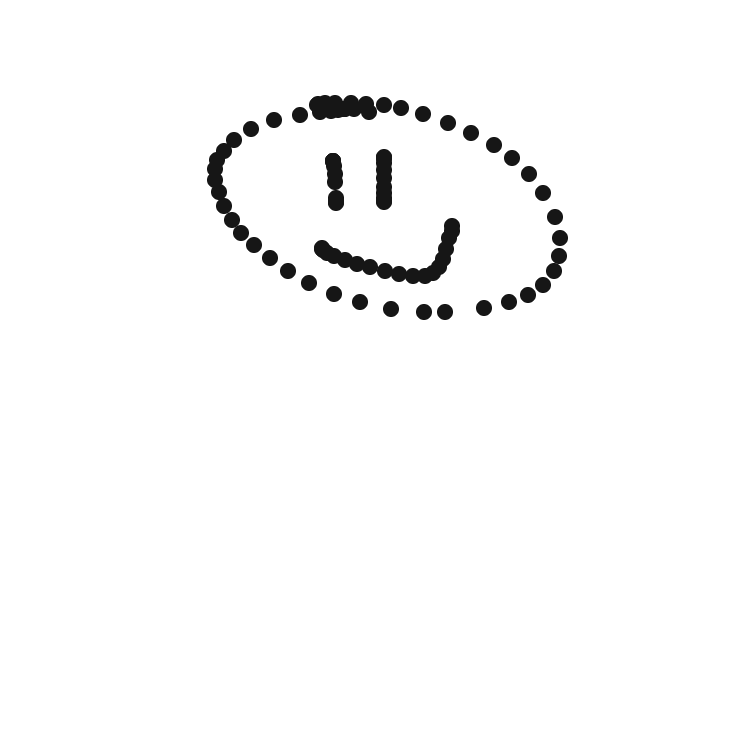
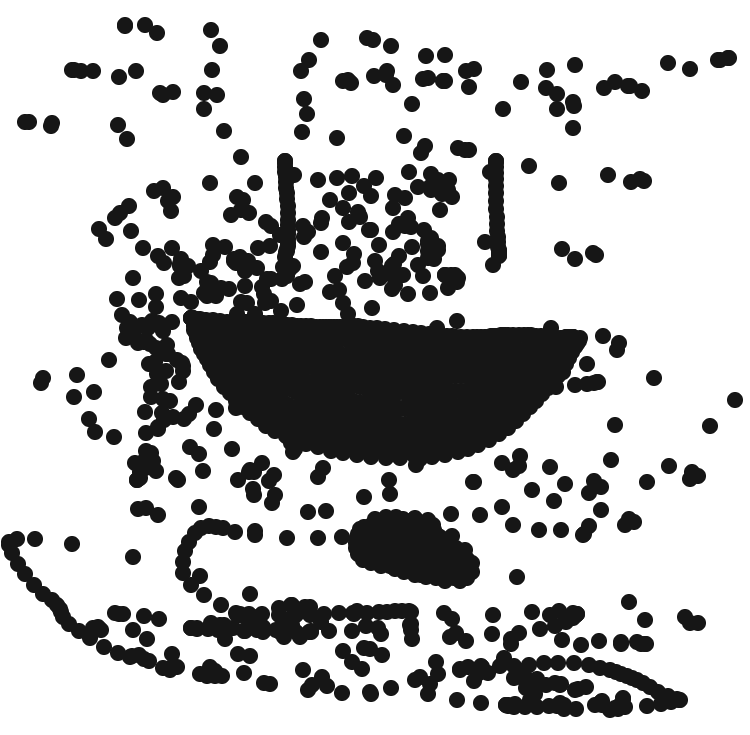
Automatic image processing
Image gets processed upon drawing now

diff --git a/js/app.js b/js/app.js
@@ -33,10 +33,20 @@ function saveImg(canvas) {
 
   // Write file to SPADE directory for processing
   jetpack.write("img/drawn.png", buf);
+
+  updateResult();
+}
+
+function updateResult() {
   // Execute python script to convert to greyscale and move to SPADE
   var appPath = app.getAppPath();
   const pyProcess = exec("python3 "+appPath+"/img/ctg.py");
-  // TODO: execute test.py with args to get resulting image
+  // Execute test.py with args to get resulting image
+  const mlProcess = exec("python3 "+appPath+"/uSPADE/test.py " +
+                         "--name ade20k_pretrained --dataset_mode ade20k " +
+                         "--dataroot "+appPath+"/uSPADE/dataset " +
+                         "--checkpoints_dir "+appPath+"/uSPADE/checkpoints " +
+                         "--results_dir "+appPath+"/uSPADE/results");
 }
 
 // Draws a dot given size and greyscale value

diff --git a/img/ctg.py b/img/ctg.py
@@ -3,8 +3,9 @@ import cv2
 import os
 
 path = os.getcwd()
-print(path)
 
 #reads img as greyscale, then rewrites img
 img = cv2.imread(path+"/img/drawn.png", 0)
 cv2.imwrite(path+"/img/grey.png", img)
+
+os.rename(path+"/img/grey.png", path+"/uSPADE/dataset/validation/ADE_val_00000001.png")
